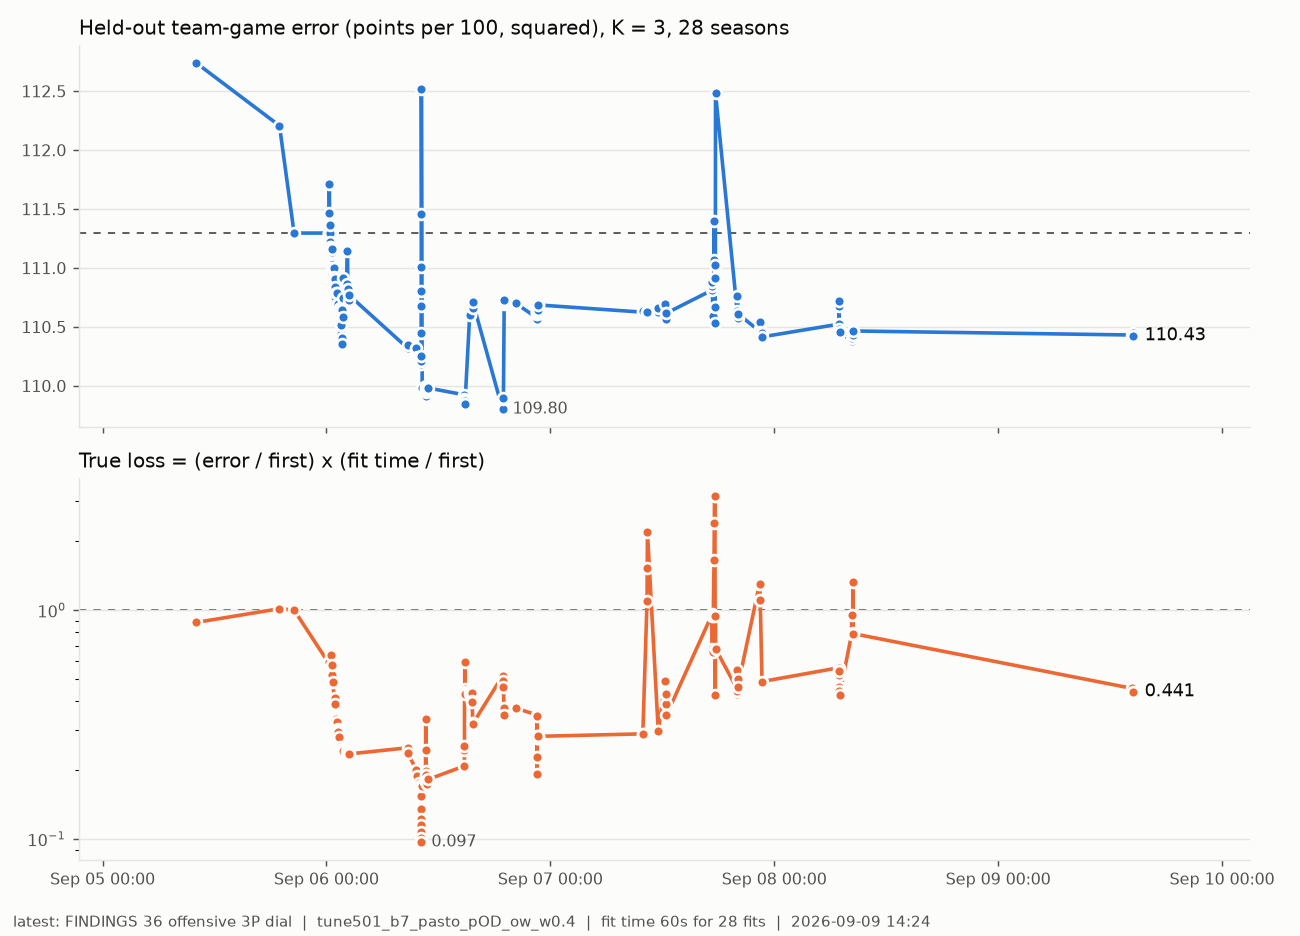
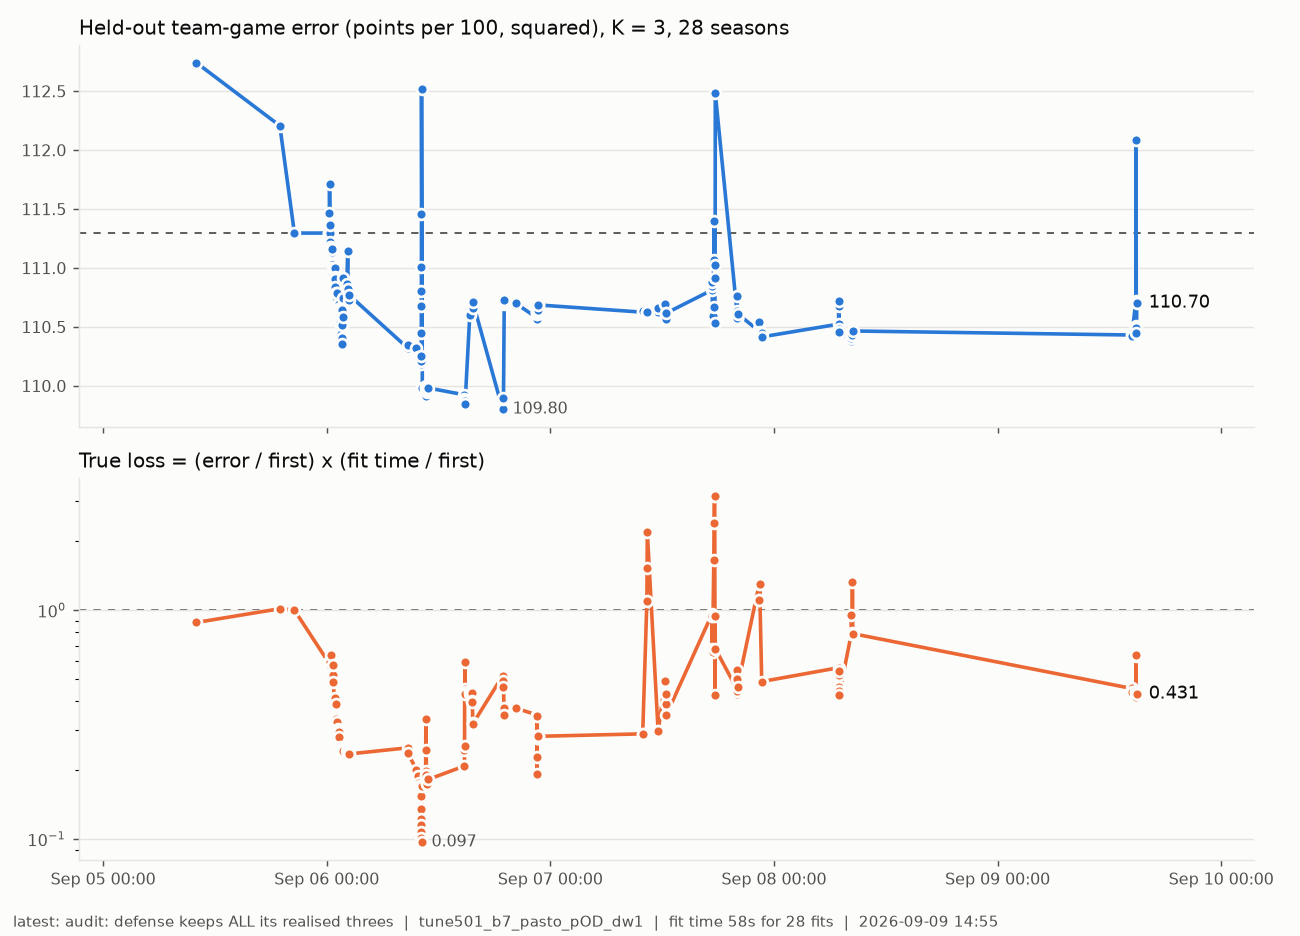
The audit: every conclusion of this pass re-read on the mapped criterion (FINDINGS 36.6)
36.5 found the numbers behind FINDINGS 33, 34.5 and 36.1 were unmapped, so all eight claims were re-run
with 54_track.py fitting the shipping map per system and pairsys.py pairing them over the same 28 seasons.

Five rejections stand, one is sharper, one claim is withdrawn, one number is corrected.

Withdrawn. I wrote in 36.1 that every bit of real defensive three-point signal handed back to the ridge
makes ratings worse, monotonically. Mapped that is false at the small end: a defense keeping a quarter of
its realised deviation is -0.007 at z -0.34, dead flat. The endpoint holds, removing the adjustment
altogether costs +0.248 at z 3.25. So the defensive three-point adjustment is worth about a quarter point
per 100 and anything between erasing all of it and keeping a quarter is the same board. That fits 35.1
better than what I wrote: the measured 25% season-scale skill share is not contradicted by the ratings,
it is simply free to keep or discard.

Corrected. The shipped free-throw adjustment is worth +0.259 mapped against raw points, not the +0.459 I
quoted from the unmapped run. Still real and significant, 44% smaller.

Sharper. FINDINGS 33 said the team-level free-throw target recovered 5% of the shipped gain. Mapped it is
indistinguishable from having no free-throw adjustment at all, +0.266 against +0.259. Pricing every shooter
at his team's rate is exactly as good as not adjusting free throws.
[…]

diff --git a/FINDINGS.md b/FINDINGS.md
@@ -4950,7 +4950,7 @@ shooter's other-half rate and `w = 1` is raw points on that channel.  The formul
 offensive counters either way, so the same target serves as `def_target` (sweeping what a defense keeps)
 or as `off_target` (sweeping what an offense keeps), and `x3def_w1` IS the shipped `xpts_ft`.
 
-### 36.1 The defense should keep none of it, even though it earns some (unmapped; the sign holds, see 36.5)
+### 36.1 The defense should keep none of it, even though it earns some (UNMAPPED; 36.6 WITHDRAWS the monotonicity)
 
 Search half, K = 3, against `tune501_b7_pasto_pOD`, team-game level, sweeping what the DEFENSE keeps:
 
@@ -5057,3 +5057,46 @@ The defensive conclusion stands.  Only the offensive magnitudes were wrong.
 gain can be entirely absorbed by the shipped calibration map.*  A target that changes a side's amplitude
 will show a large unmapped gain and none at all once the map is fitted.  Run `54_track.py` and
 `pairsys.py` before quoting any number as a gain, never `45_holdout.py` alone.
+
+### 36.6 The audit: every conclusion of this pass re-read on the mapped criterion
+
+36.5 found that the numbers behind FINDINGS 33, 34.5 and 36.1 were all unmapped, so every conclusion drawn
+from them was re-run properly -- `54_track.py` fits the shipping map leave-one-season-out on each system's
+own dump, `scratch/pairsys.py` pairs them over the same 28 seasons.
+
+| what was claimed | unmapped | **mapped** | z | won | verdict |
+|---|---|---|---|---|---|
+| no luck adjustment at all (`_pts`) | +0.459 | **+0.259** | 3.50 | 8/28 | **number corrected** |
+| team-level free throws (`_tlfto`, 33) | +0.438 | +0.266 | 3.70 | 8/28 | **sharper**: recovers ~0%, not 5% |
+| team-LOO threes, offense (`_tlxft3o_O`, 33) | -0.113 | **-0.001** | -0.03 | 14/28 | stands, and it is exactly zero |
+| plus two-point shooting (`_tlxft32o`, 33) | +2.276 | +1.629 | 8.72 | 1/28 | stands |
+| on-court ORTG/DRTG in the prior (`_onc`, 34.5) | +0.078 | +0.052 | 2.22 | 11/28 | stands |
+| the same, offense only (`_oncO`, 34.5) | +0.054 | +0.037 | 1.84 | 13/28 | stands |
+| defense keeps a quarter of its threes (`_dw0.25`, 36.1) | +0.028 | **-0.007** | -0.34 | 14/28 | **CLAIM WITHDRAWN** |
+| defense keeps all of them (`_dw1`, 36.1) | +0.454 | +0.248 | 3.25 | 8/28 | stands |
+
+**Five rejections stand, one is sharper, and one claim is withdrawn.**
+
+**Withdrawn: 36.1's monotonicity.**  I wrote that *"every bit of real defensive three-point signal handed
+back to the ridge makes the ratings worse."*  Mapped, that is false at the small end: letting a defense
+keep a quarter of its realised three-point deviation is **-0.007 at z -0.34**, dead flat.  What is true is
+the endpoint -- removing the adjustment altogether costs **+0.248 at z 3.25** -- so the defensive
+three-point adjustment is worth about a quarter of a point per 100 and **anything between erasing all of
+it and keeping a quarter is the same board**.  That is a better fit to 35.1 than what I wrote: the measured
+25% season-scale skill share is not contradicted by the ratings, it is simply free to keep or discard.
+
+**Corrected number: the shipped free-throw adjustment is worth 0.26 per 100, not 0.46.**  `xpts_ft` against
+raw points reads +0.459 unmapped and +0.259 mapped.  Still real, still significant, 44% smaller than the
+unmapped figure and than what FINDINGS 33 quoted.
+
+**Sharper: the team-level free-throw target recovers nothing.**  33 said it gave back 5% of the shipped
+gain.  Mapped, `_tlfto` at +0.266 is INDISTINGUISHABLE FROM having no free-throw adjustment at all
+(+0.259).  Pricing every shooter at his team's rate is exactly as good as not adjusting free throws, which
+is a cleaner statement of the same mechanism.
+
+**How much the map absorbs, and it is not uniform.**  It took 99% of the offensive three-point target's
+effect, 44% of the free-throw target's, 29% of the two-point disaster's and 33% of the on-court prior's.
+That is the amplitude story quantified: the three-point targets were almost purely a change in offensive
+scale, which a per-side calibration curve already delivers, while the others changed something a curve
+cannot reach.  **A candidate's map absorption is itself diagnostic -- near-total absorption means the
+candidate was only rescaling a side.**
